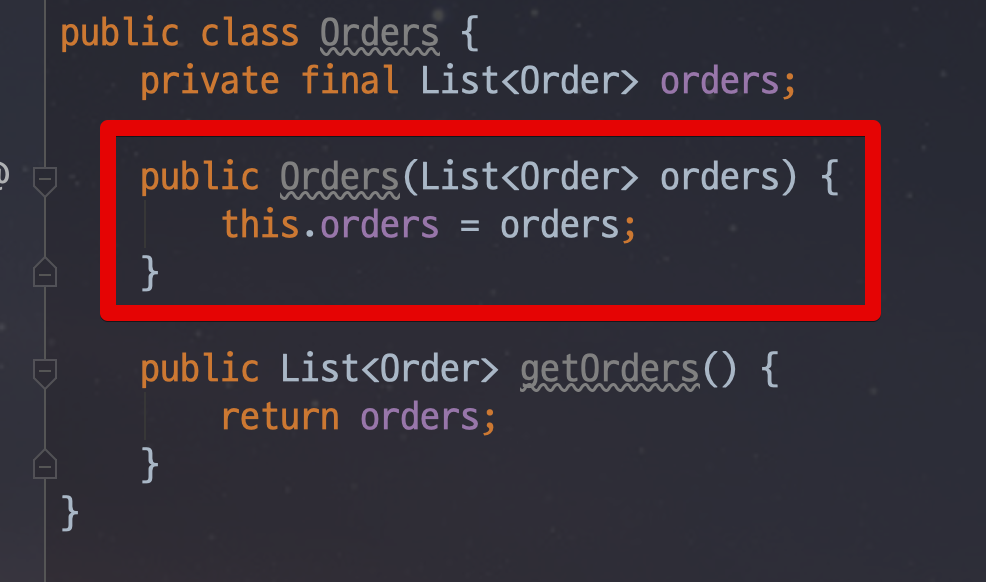
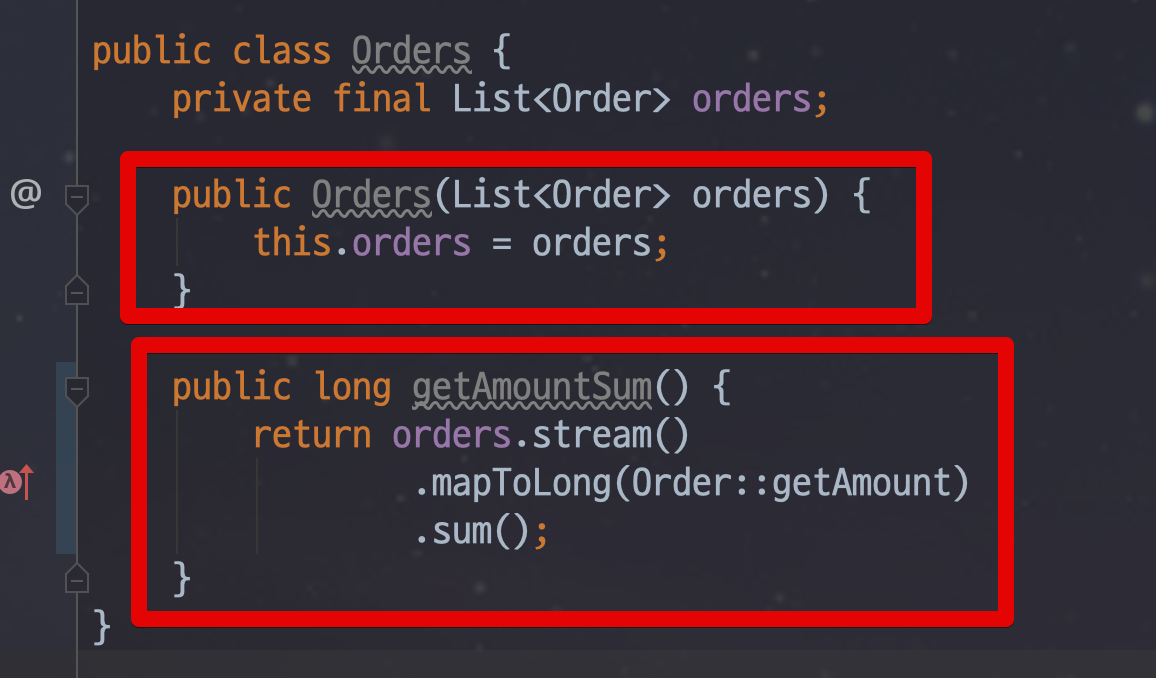
일급컬렉션 완성

Changed region(s): [[0.0, 0.0309, 0.9128, 0.9588], [0.0, 0.2474, 0.0609, 0.3402], [0.9736, 0.1546, 1.0, 0.1856]]

diff --git a/first-class-collection/src/test/java/com/jojoldu/blogcode/firstclasscollection/NamedCollectionTest.java b/first-class-collection/src/test/java/com/jojoldu/blogcode/firstclasscollection/NamedCollectionTest.java
@@ -1,0 +1,43 @@
+package com.jojoldu.blogcode.firstclasscollection;
+
+import com.jojoldu.blogcode.firstclasscollection.sample3.Pay;
+import com.jojoldu.blogcode.firstclasscollection.sample4.KakaoPays;
+import com.jojoldu.blogcode.firstclasscollection.sample4.NaverPays;
+import org.junit.Test;
+
+import java.util.ArrayList;
+import java.util.List;
+
+public class NamedCollectionTest {
+
+    @Test
+    public void 컬렉션을_변수명으로() {
+        //given
+        List<Pay> naverPays = createNaverPays();
+        List<Pay> kakaoPays = createKakaoPays();
+
+        //when
+
+        //then
+    }
+
+    @Test
+    public void 일급컬렉션의_이름으로() {
+        //given
+        NaverPays naverPays = new NaverPays(createNaverPays());
+
+        KakaoPays kakaoPays = new KakaoPays(createKakaoPays());
+
+        //when
+
+        //then
+    }
+
+    private ArrayList<Pay> createNaverPays() {
+        return new ArrayList<>();
+    }
+
+    private ArrayList<Pay> createKakaoPays() {
+        return new ArrayList<>();
+    }
+}

diff --git a/first-class-collection/src/test/java/com/jojoldu/blogcode/firstclasscollection/PayCollectionTest.java b/first-class-collection/src/test/java/com/jojoldu/blogcode/firstclasscollection/PayCollectionTest.java
@@ -1,15 +1,15 @@
 package com.jojoldu.blogcode.firstclasscollection;
 
-import com.jojoldu.blogcode.firstclasscollection.sample4.Pay;
-import com.jojoldu.blogcode.firstclasscollection.sample4.PayGroups;
+import com.jojoldu.blogcode.firstclasscollection.sample3.Pay;
+import com.jojoldu.blogcode.firstclasscollection.sample3.PayGroups;
 import org.junit.Test;
 
 import java.util.Arrays;
 import java.util.List;
 
-import static com.jojoldu.blogcode.firstclasscollection.sample4.PayType.KAKAO_PAY;
-import static com.jojoldu.blogcode.firstclasscollection.sample4.PayType.NAVER_PAY;
-import static com.jojoldu.blogcode.firstclasscollection.sample4.PayType.TOSS;
+import static com.jojoldu.blogcode.firstclasscollection.sample3.PayType.KAKAO_PAY;
+import static com.jojoldu.blogcode.firstclasscollection.sample3.PayType.NAVER_PAY;
+import static com.jojoldu.blogcode.firstclasscollection.sample3.PayType.TOSS;
 import static org.assertj.core.api.Assertions.assertThat;
 
 public class PayCollectionTest {

diff --git a/first-class-collection/src/main/java/com/jojoldu/blogcode/firstclasscollection/sample4/KakaoPays.java b/first-class-collection/src/main/java/com/jojoldu/blogcode/firstclasscollection/sample4/KakaoPays.java
@@ -1,0 +1,15 @@
+package com.jojoldu.blogcode.firstclasscollection.sample4;
+
+import com.jojoldu.blogcode.firstclasscollection.sample3.Pay;
+import lombok.Getter;
+import lombok.RequiredArgsConstructor;
+
+import java.util.List;
+
+@Getter
+@RequiredArgsConstructor
+public class KakaoPays {
+
+    private final List<Pay> pays;
+
+}

diff --git a/first-class-collection/src/main/java/com/jojoldu/blogcode/firstclasscollection/sample4/NaverPays.java b/first-class-collection/src/main/java/com/jojoldu/blogcode/firstclasscollection/sample4/NaverPays.java
@@ -1,0 +1,15 @@
+package com.jojoldu.blogcode.firstclasscollection.sample4;
+
+import com.jojoldu.blogcode.firstclasscollection.sample3.Pay;
+import lombok.Getter;
+import lombok.RequiredArgsConstructor;
+
+import java.util.List;
+
+@Getter
+@RequiredArgsConstructor
+public class NaverPays {
+
+    private final List<Pay> pays;
+
+}

diff --git a/first-class-collection/src/main/java/com/jojoldu/blogcode/firstclasscollection/sample2/Orders.java b/first-class-collection/src/main/java/com/jojoldu/blogcode/firstclasscollection/sample2/Orders.java
@@ -9,7 +9,9 @@ public class Orders {
         this.orders = orders;
     }
 
-    public List<Order> getOrders() {
-        return orders;
+    public long getAmountSum() {
+        return orders.stream()
+                .mapToLong(Order::getAmount)
+                .sum();
     }
 }

diff --git a/first-class-collection/src/main/java/com/jojoldu/blogcode/firstclasscollection/sample3/PayType.java b/first-class-collection/src/main/java/com/jojoldu/blogcode/firstclasscollection/sample3/PayType.java
@@ -1,4 +1,4 @@
-package com.jojoldu.blogcode.firstclasscollection.sample4;
+package com.jojoldu.blogcode.firstclasscollection.sample3;
 
 import lombok.Getter;
 import lombok.RequiredArgsConstructor;

diff --git a/first-class-collection/src/main/java/com/jojoldu/blogcode/firstclasscollection/sample3/PayGroups.java b/first-class-collection/src/main/java/com/jojoldu/blogcode/firstclasscollection/sample3/PayGroups.java
@@ -1,4 +1,4 @@
-package com.jojoldu.blogcode.firstclasscollection.sample4;
+package com.jojoldu.blogcode.firstclasscollection.sample3;
 
 import java.util.List;
 import java.util.function.Predicate;

diff --git a/first-class-collection/src/main/java/com/jojoldu/blogcode/firstclasscollection/sample3/Pay.java b/first-class-collection/src/main/java/com/jojoldu/blogcode/firstclasscollection/sample3/Pay.java
@@ -1,4 +1,4 @@
-package com.jojoldu.blogcode.firstclasscollection.sample4;
+package com.jojoldu.blogcode.firstclasscollection.sample3;
 
 
 import lombok.Builder;

diff --git a/first-class-collection/src/main/java/com/jojoldu/blogcode/firstclasscollection/sample2/Order.java b/first-class-collection/src/main/java/com/jojoldu/blogcode/firstclasscollection/sample2/Order.java
@@ -1,4 +1,8 @@
 package com.jojoldu.blogcode.firstclasscollection.sample2;
 
+import lombok.Getter;
+
+@Getter
 public class Order {
+    private Long amount;
 }

diff --git a/first-class-collection/README.md b/first-class-collection/README.md
@@ -1,9 +1,12 @@
 # 일급 컬렉션
 
-안녕하세요?  
-이번 시간에는 일급 컬렉션 (First Class Collection) 에 대해 배워보겠습니다.  
+최근 [클린코드 & TDD 강의](https://edu.nextstep.camp/)의 리뷰어로 참가하면서 많은 분들이 공통적으로 어려워 하는 개념 한가지를 발견하게 되었습니다.  
+바로 **일급 컬렉션**인데요.  
+왜 객체지향적으로, 리팩토링하기 쉬운 코드로 갈려면 일급 컬렉션이 필요한지에 대해 많은 분들이 공감하지 못하는걸 보게 되었습니다.  
   
-일급 컬렉션이란 단어는 [소트웍스 앤솔로지](https://coupa.ng/bgRZDf) 의 객체지향 생활체조 파트에서 언급이 되었습니다.  
+그래서 이번 시간에는 일급 컬렉션 (First Class Collection) 이 무엇인지, 어떤 장점들이 있는지에 대해 소개드립니다.  
+  
+일급 컬렉션이란 단어는 [소트웍스 앤솔로지](https://coupa.ng/bgRZDf) 의 **객체지향 생활체조** 파트에서 언급이 되었습니다.  
 
 > 규칙 8: 일급 콜렉션 사용
 이 규칙의 적용은 간단하다. 
@@ -43,8 +46,8 @@ Wrapping 함으로써 다음과 같은 이점을 가지게 됩니다.
 
 1. **비지니스**에 종속적인 **자료구조**
 2. Collection의 **불변성**을 보장
-3. 같은 타입의 Collection도 용도에 따라 분류 가능
-4. 상태와 행위를 한 곳에서 관리
+3. 상태와 행위를 한 곳에서 관리
+4. 이름이 있는 컬렉션
 
 하나 하나 소개드리겠습니다.
 
@@ -157,15 +160,19 @@ Java의 ```final```은 정확히는 불변을 만들어주는 것은 아니며, 
   
 Java에서는 final로 그 문제를 해결할 수 없기 때문에 **일급 컬렉션** (Frist Class Collection)과 **래퍼 클래스** (Wrapper Class) 등의 방법으로 해결해야하만 합니다.  
   
+그래서 아래와 같이 **컬렉션의 값을 변경할 수 있는 메소드가 없는 컬렉션**을 만들면 **불변 컬렉션**이 됩니다.  
 
 ![immutable3](./images/immutable3.png)
 
-## 3. 같은 컬렉션을 이름을 붙여 관리 가능
+이 클래스는 **생성자와 getAmountSum()** 외에 다른 메소드가 없습니다.  
+즉, 이 클래스의 사용법은 **새로 만들거나 값을 가져오는 것**뿐인거죠.  
+List라는 컬렉션에 접근할 수 있는 방법이 없기 때문에 **값을 변경/추가가 안됩니다**.  
+  
+이렇게 일급 컬렉션을 사용하면, 불변 컬렉션을 만들수 있습니다.
 
+## 3. 상태와 행위를 한곳에서 관리
 
-## 4. 상태와 행위를 한곳에서 관리
-
-일급 컬렉션의 두번째 장점은 **값과 로직이 함께 존재**한다는 것입니다.  
+일급 컬렉션의 세번째 장점은 **값과 로직이 함께 존재**한다는 것입니다.  
 
 > 이 부분은 예전에 소개 드린 [Enum](http://woowabros.github.io/tools/2017/07/10/java-enum-uses.html)의 장점과도 일맥상통합니다.  
 
@@ -178,12 +185,23 @@ Java에서는 final로 그 문제를 해결할 수 없기 때문에 **일급 컬
 * Service 혹은 Util 클래스에서 필요한 로직 수행
 
 이 상황에서는 문제가 있습니다.
-결국 ```pays``` 라는 컬렉션과 계산로직은 **서로 관계**가 있는데, 이를 **코드로 표현이 안됩니다**.  
+결국 ```pays``` 라는 컬렉션과 계산 로직은 **서로 관계**가 있는데, 이를 **코드로 표현이 안됩니다**.  
   
-Pay타입의 
+Pay타입의 **상태에 따라** 지정된 메소드에서만 계산되길 원하는데, 현재 상태로는 강제할 수 있는 수단이 없습니다.  
+지금은 **Pay타입의 List라면** 사용될 수 있기 때문에 히스토리를 모르는 분들이라면 실수할 여지가 많습니다.   
 
+* 똑같은 기능을 하는 **메소드를 중복 생성**할 수 있습니다.
+    * 히스토리가 관리 안된 상태에서 신규화면이 추가되어야 할 경우 계산 메소드가 있다는 것을 몰라 다시 만드는 경우가 빈번합니다.
+    * 만약 기존 화면의 계산 로직이 변경 될 경우, 신규 인력은 2개의 메소드의 로직을 다 변경해야하는지, 해당 화면만 변경해야하는지 알 수 없습니다.
+    * 관리 포인트가 증가할 확률이 매우 높습니다.
+* 계산 메소드를 누락할 수 있습니다.
+    * 리턴 받고자 하는 것이 Long 타입의 값이기 때문에 **꼭 이 계산식을 써야한다고 강제할 수 없습니다**
 
-
+결국에 **네이버페이 총 금액을 뽑을려면 이렇게 해야한다는 계산식을 컬렉션과 함께 두어야** 합니다.  
+만약 네이버페이 외에 카카오 페이의 총금액도 필요하다면 더더욱 **코드가 흩어질 확률이 높습니다**.  
+  
+그래서 이 문제 역시 일급 컬렉션으로 해결합니다.  
+  
 ```java
 public class PayGroups {
     private List<Pay> pays;
@@ -200,6 +218,8 @@ public class PayGroups {
     }
 }
 ```
+
+만약 **다른 결제 수단들의 합이 필요하다면 아래와 같이 **람다식으로 리팩토링** 가능합니다.
 
 ```java
 public class PayGroups {
@@ -226,4 +246,48 @@ public class PayGroups {
 }
 ```
 
+이렇게 PayGroups라는 일급 컬렉션이 생김으로 **상태와 로직이 한곳에서 관리** 됩니다.
 
+![merge1](./images/merge2.png)
+
+## 4. 이름이 있는 컬렉션
+
+마지막 장점은 **컬렉션에 이름을 붙일 수 있다**는 것입니다.  
+이 장점에 대해서는 크게 메리트를 못느끼실 수도 있는데요.  
+저는 요즘 이것 역시 장점이라고 생각되어서 언급하게 되었습니다.  
+  
+**같은 Pay들의 모임이지만 네이버페이의 List와 카카오페이의 List는 다릅니다**.  
+그렇다면 이 둘을 구분할려면 어떻게 해야할까요?  
+가장 흔한 방법은 **변수명을 다르게 하는 것입니다**.  
+
+![named1](./images/named1.png)
+
+위 코드의 단점은 뭘까요?  
+
+* 검색이 어려움
+  * 네이버페이 그룹이 어떻게 사용되는지 검색 시 **변수명으로만 검색할 수 있습니다**
+  * 이 상황에서 검색은 거의 불가능합니다.
+  * **네이버페이의 그룹**이라는 뜻은 **개발자마다 다르게 지을 수 있기 때문**입니다.
+  * 네이버페이 그룹은 어떤 검색어로 검색이 가능할까요?
+* 명확한 표현이 불가능
+  * 변수명에 불과하기 때문에 **의미를 부여하기가 어렵습니다**
+  * 이는 개발팀/운영팀간에 의사소통시 보편적인 언어로 사용하기가 어려움을 얘기합니다.
+  * 중요한 값임에도 **이를 표현할 명확한 단어가 없는것**이죠.
+
+위 문제 역시 일급 컬렉션으로 쉽게 해결할 수 있습니다.  
+  
+네이버페이 그룹과 카카오페이 그룹 각각의 일급 컬렉션을 만들면 **이 컬렉션 기반으로 용어사용과 검색**을 하면 됩니다.
+
+![named2](./images/named2.png)
+
+개발팀/운영팀 내에서 사용될 표현은 이제 이 컬렉션에 맞추면 됩니다.  
+검색 역시 이 컬렉션 클래스를 검색하면 모든 사용 코드를 찾아낼 수 있습니다.
+
+## 마무리
+
+어떠셨나요?  
+일급 컬렉션을 왜 써야하는지 조금은 공감이 가시나요?  
+Enum과 마찬가지로 일급 컬렉션은 객체지향 코드로 가기 위해 꼭 익혀야할 방법 중 하나입니다.  
+  
+앞으로도 종종 리뷰어로 활동하면서 어려워 하시는 개념에 대해 정리해서 공유드리겠습니다.  
+끝까지 읽어주셔서 감사합니다!
